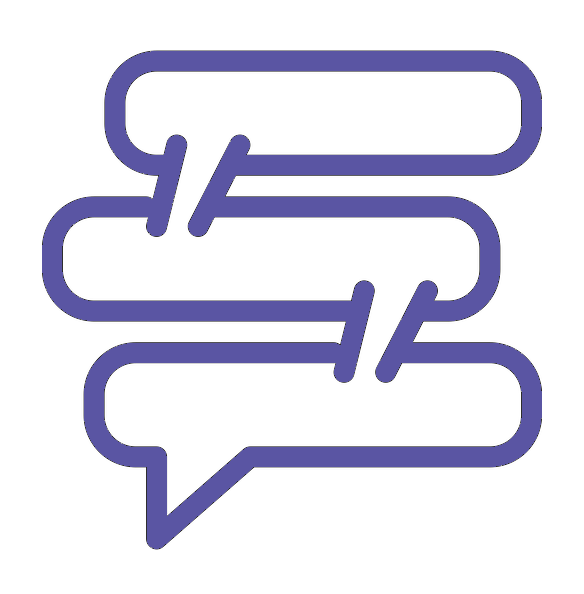
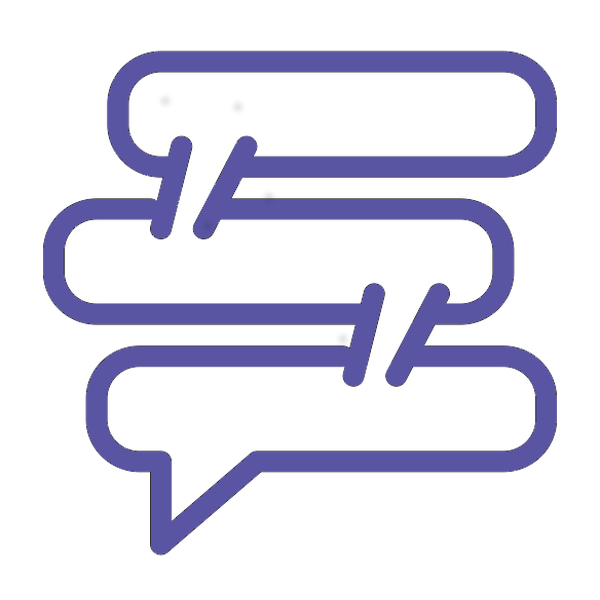
resized images and more bootstrap formatting

diff --git a/app/templates/get-started-b2b.html b/app/templates/get-started-b2b.html
@@ -27,25 +27,25 @@
                     <div class="col-md-3 col-xs-3">
                         <h2 class="subject-tagline">DRIVE MORE AWARENESS</h2>
                         <div class= "col-lg-10 col-md-10 col-xs-10 subject-tagline-image">
-                            <img class="image-spacing-pic img-responsive" src= "{{ url_for('static', filename='drive.png') }}" />
+                            <img class="img-size img-responsive" src= "{{ url_for('static', filename='drive.png') }}" />
                         </div>
                     </div>  
                     <div class="col-md-3 col-xs-3">
                         <h2 class="subject-tagline">ENGAGE YOUR CUSTOMER</h2>   
                         <div class= "col-lg-10 col-md-10 col-xs-10 subject-tagline-image">
-                            <img class="image-spacing-pic img-responsive" src= "{{ url_for('static', filename='engage.png') }}" />
+                            <img class="img-size img-responsive" src= "{{ url_for('static', filename='engage.png') }}" />
                         </div>            
                     </div> 
                     <div class="col-md-3 col-xs-3">
-                        <h2 class="subject-tagline">CLOSER ALIGN WITH SALES</h2> 
+                        <h2 class="subject-tagline">ALIGN WITH THE SALES TEAM</h2> 
                         <div class= "col-lg-10 col-md-10 col-xs-10 subject-tagline-image">
-                            <img class="image-spacing-pic img-responsive" src= "{{ url_for('static', filename='sales.png') }}" />
+                            <img class="img-size img-responsive" src= "{{ url_for('static', filename='sales.png') }}" />
                         </div>           
                     </div> 
                     <div class="col-md-3 col-xs-3">
                         <h2 class="subject-tagline">MEASURE YOUR SUCCESS</h2>   
                         <div class= "col-lg-10 col-md-10 col-xs-10 subject-tagline-image">
-                            <img class="image-spacing-pic img-responsive" src= "{{ url_for('static', filename='report.png') }}" />
+                            <img class="img-size img-responsive" src= "{{ url_for('static', filename='report.png') }}" />
                         </div>            
                     </div> 
                 </div>                
@@ -139,7 +139,7 @@
                         <p class="section3-copy">It's hard to coordinate all of your markting programs in flight across teams and regions.  The Marketo Marketing Calendar makes it easy for marketing teams to efficiently plan, coordinate, and share the many great things happening in marketing.</p>
                    
 
-                        <div class="col-md-12 col-xs-12 group-section-container mt-5">
+                        <div class="col-md-12 col-xs-12 mb-5 mt-5">
                             <div class="col-md-4 col-xs-4">
                                 <div class="section3-options purple-background">
                                     <h4 class="text-center font-size-16 white-text">Automate</h4>
@@ -160,7 +160,7 @@
                         </div>
 
                         
-                        <div class="col-md-12 col-xs-12 group-section-container">
+                        <div class="col-md-12 col-xs-12 mb-5">
                             <div class="col-md-4 col-xs-4">
                                 <div class="section3-options">
                                     <h4 class="text-center font-size-16">Nurture</h4>
@@ -276,7 +276,7 @@
                         <p class="section5-copy">Most CRMs and Marketing Automation software only captures attribution metrics with a single touch (e.g a lead source).  Don't limit yourself to a single-touch attribution model with Marketo.</p>
                    
 
-                        <div class="col-md-12 col-xs-12 group-section-container mt-10">
+                        <div class="col-md-12 col-xs-12 mb-5 mt-10">
                             <div class="col-md-4 col-xs-4">
                                 <div class="section5-options purple-background">
                                     <h4 class="text-center font-size-16 white-text">Executive Dashboard</h4>

diff --git a/app/static/business-frontpage.css b/app/static/business-frontpage.css
@@ -1,17 +1,12 @@
-
-/*!
- * Start Bootstrap - Business Frontpage HTML Template (http://startbootstrap.com)
- * Code licensed under the Apache License v2.0.
- * For details, see http://www.apache.org/licenses/LICENSE-2.0.
- */
-
-body {
-    /*padding-top: 50px;*/ /* Required padding for .navbar-fixed-top. Remove if using .navbar-static-top. Change if height of navigation changes. */
+hr {
+    margin-top: 10px;
+    margin-bottom: 10px;
 }
 
 h2 {
     font-size: 2.0em;
     margin-top: 0px;
+    margin-bottom: 0px; 
 }
 
 h3 {
@@ -48,8 +43,9 @@ p {
 }
 
 .subject-tagline {
+    margin-bottom: 15px;
     color: white;
-    font-size: 2.0em;
+    font-size: 1.5em;
     text-align: center;
 }
 
@@ -63,6 +59,13 @@ p {
     
 }
 
+.img-size {
+    width: 100%;
+    height: 100%;
+    max-width: 160px;
+    max-height: 160px;
+}
+
 .logo {
     height: 60px;
     width: 60px;
@@ -70,17 +73,9 @@ p {
     margin-left: 5%;
 }
 
-.arrow-container-down {
-    margin-left: 50%;
-    margin-right: 50%;
-}
-
-.arrow-container-up {
-    margin-left: 50%;
-    margin-right: 50%;
-}
-
 .inner-arrow-container {
+    display: block;
+    margin: 0 auto;
     width: 50px;
     height: 50px;
 }
@@ -142,7 +137,7 @@ p {
 }
 
 
-.group-section-container {
+.mb-5 {
     margin-bottom: 5%;
 }
 
@@ -160,6 +155,12 @@ p {
 .indent {
     padding-left: 5%;
     padding-right: 5%;
+}
+
+.col-centered {
+    float: none;
+    margin-left: auto;
+    margin-right: auto;
 }
 
 

diff --git a/app/static/getstarted.js b/app/static/getstarted.js
@@ -15,22 +15,23 @@ $(document).ready(function(){
 
 });
 
-// $(window).resize(function(){
-// 	if($(window).width() < 999) {
-// 		console.log("did it register?");
-// 	    $('#fullpage').fullpage({
-// 	    	scrollingSpeed: 7000,
-// 	    	autoScrolling: false
-// 	    });
+$(window).resize(function(){
+	if($(window).width() < 999) {
+		console.log("did it register?");
+	    $('#fullpage').fullpage({
+	    	scrollingSpeed: 7000,
+	    	autoScrolling: false
+	    });
+	    $('.inner-arrow-container').css("display:none");
 	   
-// 	}
-// 	if($(window).width() > 999) {
-// 		console.log("did it restore?");
-// 		$('#fullpage').fullpage();
+	}
+	if($(window).width() > 999) {
+		console.log("did it restore?");
+		$('#fullpage').fullpage();
 		
 		
-// 	}
+	}
 
 
-// });
+});
 
